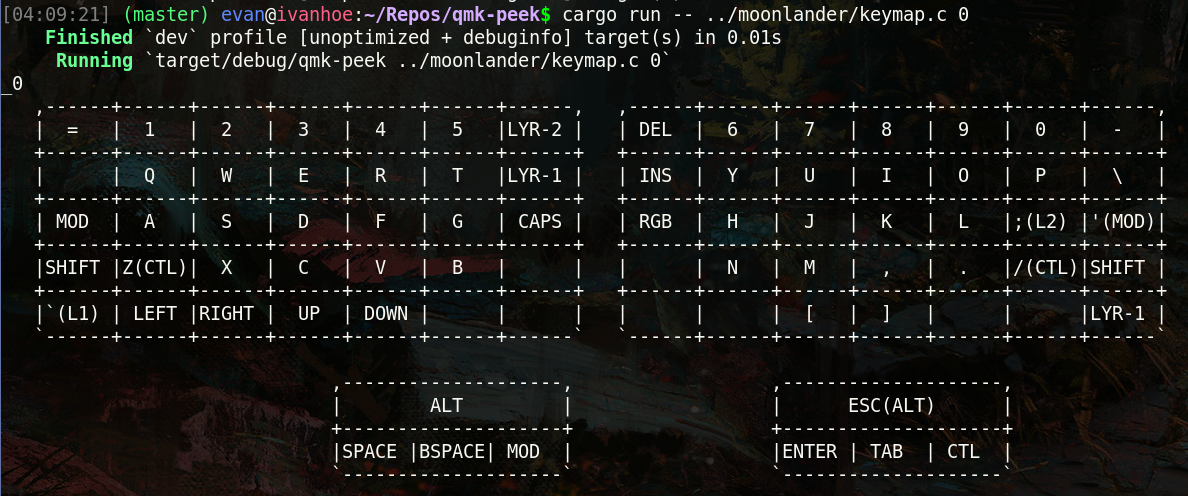
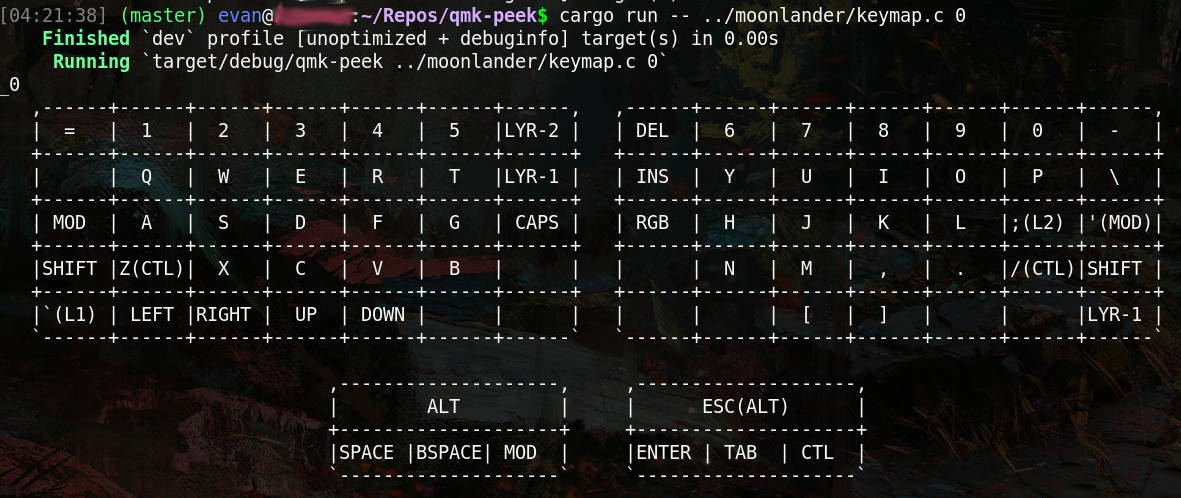
fix: update moonlander thumb spacing

diff --git a/src/boards/moonlander.rs b/src/boards/moonlander.rs
@@ -8,7 +8,7 @@ const STYLE: RenderStyle = RenderStyle {
     cell_w: 6,
     thumb_w: 6,
     thumb_indent: 30,
-    thumb_gap: 18,
+    thumb_gap: 5,
 };
 
 fn layout(idx: usize, tokens: &[String]) -> Result<KeyGrid, String> {
